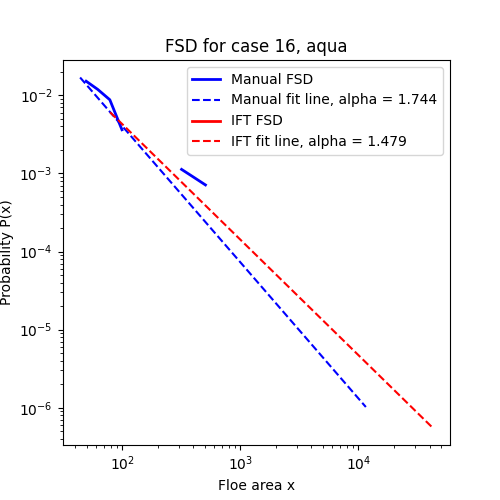
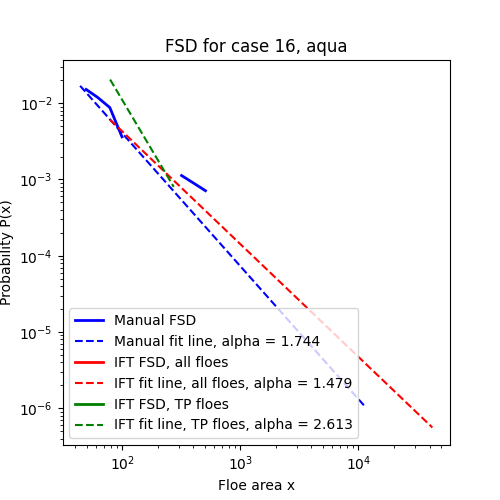
fsd modification

diff --git a/scripts/img_analysis.py b/scripts/img_analysis.py
@@ -19,6 +19,7 @@ def analyze_algo(ift_path,
         os.mkdir('./process_results')
 
     process = False
+    fsd = True
 
     if process:
         print('Processing ' + algorithm_name + ' results:')
@@ -288,12 +289,22 @@ def area_plots(processed_floes: str, dir_name: str):
 
 
 def fsd_for_images(processed_floes: str, dir_name: str):
+
+    predicted_all = []
+    actual_all = []
+    tp_all = []
+
     # FSD Power Law Distr.
     for case_no, image in processed_floes.items():
 
         predicted = [floe['floe_area'] for floe in image['fp_floes']] + [floe['ift_floe_area'] for floe in image['ift_to_man'].values()]
+        predicted_all += predicted
+
+        tp = [floe['ift_floe_area'] for floe in image['ift_to_man'].values()]
+        tp_all += tp
 
         actual = [floe['floe_area'] for floe in image['fn_floes']] + [floe['real_floe_area'] for floe in image['ift_to_man'].values()]
+        actual_all += actual
 
 
         # Suppress printlines from powerlaw package
@@ -302,8 +313,9 @@ def fsd_for_images(processed_floes: str, dir_name: str):
 
         actual_results = powerlaw.Fit(actual)
         predicted_results = powerlaw.Fit(predicted)
+        tp_results = powerlaw.Fit(tp)
 
-        man_alpha, ift_alpha = actual_results.power_law.alpha, predicted_results.power_law.alpha
+        man_alpha, ift_alpha, tp_alpha = actual_results.power_law.alpha, predicted_results.power_law.alpha, tp_results.power_law.alpha
 
         
         # Enable printlines again
@@ -315,8 +327,16 @@ def fsd_for_images(processed_floes: str, dir_name: str):
             
             fig2 = actual_results.plot_pdf(color='b', linewidth=2, label='Manual FSD')
             actual_results.power_law.plot_pdf(color='b', linestyle='--', ax=fig2, label=f"Manual fit line, alpha = {str(round(man_alpha, 3))}")
-            fig2 = predicted_results.plot_pdf(color='r', linewidth=2, ax=fig2, label='IFT FSD')
-            predicted_results.power_law.plot_pdf(color='r', linestyle='--', ax=fig2, label=f"IFT fit line, alpha = {str(round(ift_alpha, 3))}")
+            fig2 = predicted_results.plot_pdf(color='r', linewidth=2, ax=fig2, label='IFT FSD, all floes')
+            predicted_results.power_law.plot_pdf(color='r', linestyle='--', ax=fig2, label=f"IFT fit line, all floes, alpha = {str(round(ift_alpha, 3))}")
+
+            try:
+                fig2 = tp_results.plot_pdf(color='g', linewidth=2, ax=fig2, label='IFT FSD, TP floes')
+                tp_results.power_law.plot_pdf(color='g', linestyle='--', ax=fig2, label=f"IFT fit line, TP floes, alpha = {str(round(tp_alpha, 3))}")
+            except ValueError:
+                pass
+
+
             
             plt.title(f"FSD for case {image['case_number']}, {image['satellite']}")
             plt.xlabel('Floe area x')
@@ -337,6 +357,52 @@ def fsd_for_images(processed_floes: str, dir_name: str):
         except ValueError:
             plt.close()
             continue
+
+    # Suppress printlines from powerlaw package
+    sys.stdout = open(os.devnull, 'w')
+    sys.stderr = open(os.devnull, 'w')
+
+    actual_results = powerlaw.Fit(actual_all)
+    predicted_results = powerlaw.Fit(predicted_all)
+    tp_results = powerlaw.Fit(tp_all)
+
+    man_alpha, ift_alpha, tp_alpha = actual_results.power_law.alpha, predicted_results.power_law.alpha, tp_results.power_law.alpha
+
+    # Enable printlines again
+    sys.stdout = sys.__stdout__
+    sys.stderr = sys.__stderr__
+
+    try:
+        plt.figure(figsize=(5, 5))
+        
+        fig2 = actual_results.plot_pdf(color='b', linewidth=2, label='Manual FSD')
+        actual_results.power_law.plot_pdf(color='b', linestyle='--', ax=fig2, label=f"Manual fit line, alpha = {str(round(man_alpha, 3))}")
+        fig2 = predicted_results.plot_pdf(color='r', linewidth=2, ax=fig2, label='IFT FSD, all floes')
+        predicted_results.power_law.plot_pdf(color='r', linestyle='--', ax=fig2, label=f"IFT fit line, all floes, alpha = {str(round(ift_alpha, 3))}")
+
+        try:
+            fig2 = tp_results.plot_pdf(color='g', linewidth=2, ax=fig2, label='IFT FSD, TP floes')
+            tp_results.power_law.plot_pdf(color='g', linestyle='--', ax=fig2, label=f"IFT fit line, TP floes, alpha = {str(round(tp_alpha, 3))}")
+        except ValueError:
+            pass
+        
+        plt.title(f"FSD for all cases")
+        plt.xlabel('Floe area x')
+        plt.ylabel('Probability P(x)')
+
+        plt.text(3, 8, 'Inset Label', fontsize=12, bbox=dict(facecolor='black', alpha=0.5))
+
+        if not os.path.exists(dir_name):
+            os.mkdir(dir_name)
+
+        plt.legend()
+
+        plt.savefig(f"{dir_name}/all_floes_fsd.png")
+
+        plt.close()
+
+    except ValueError:
+        plt.close()
 
 
 
